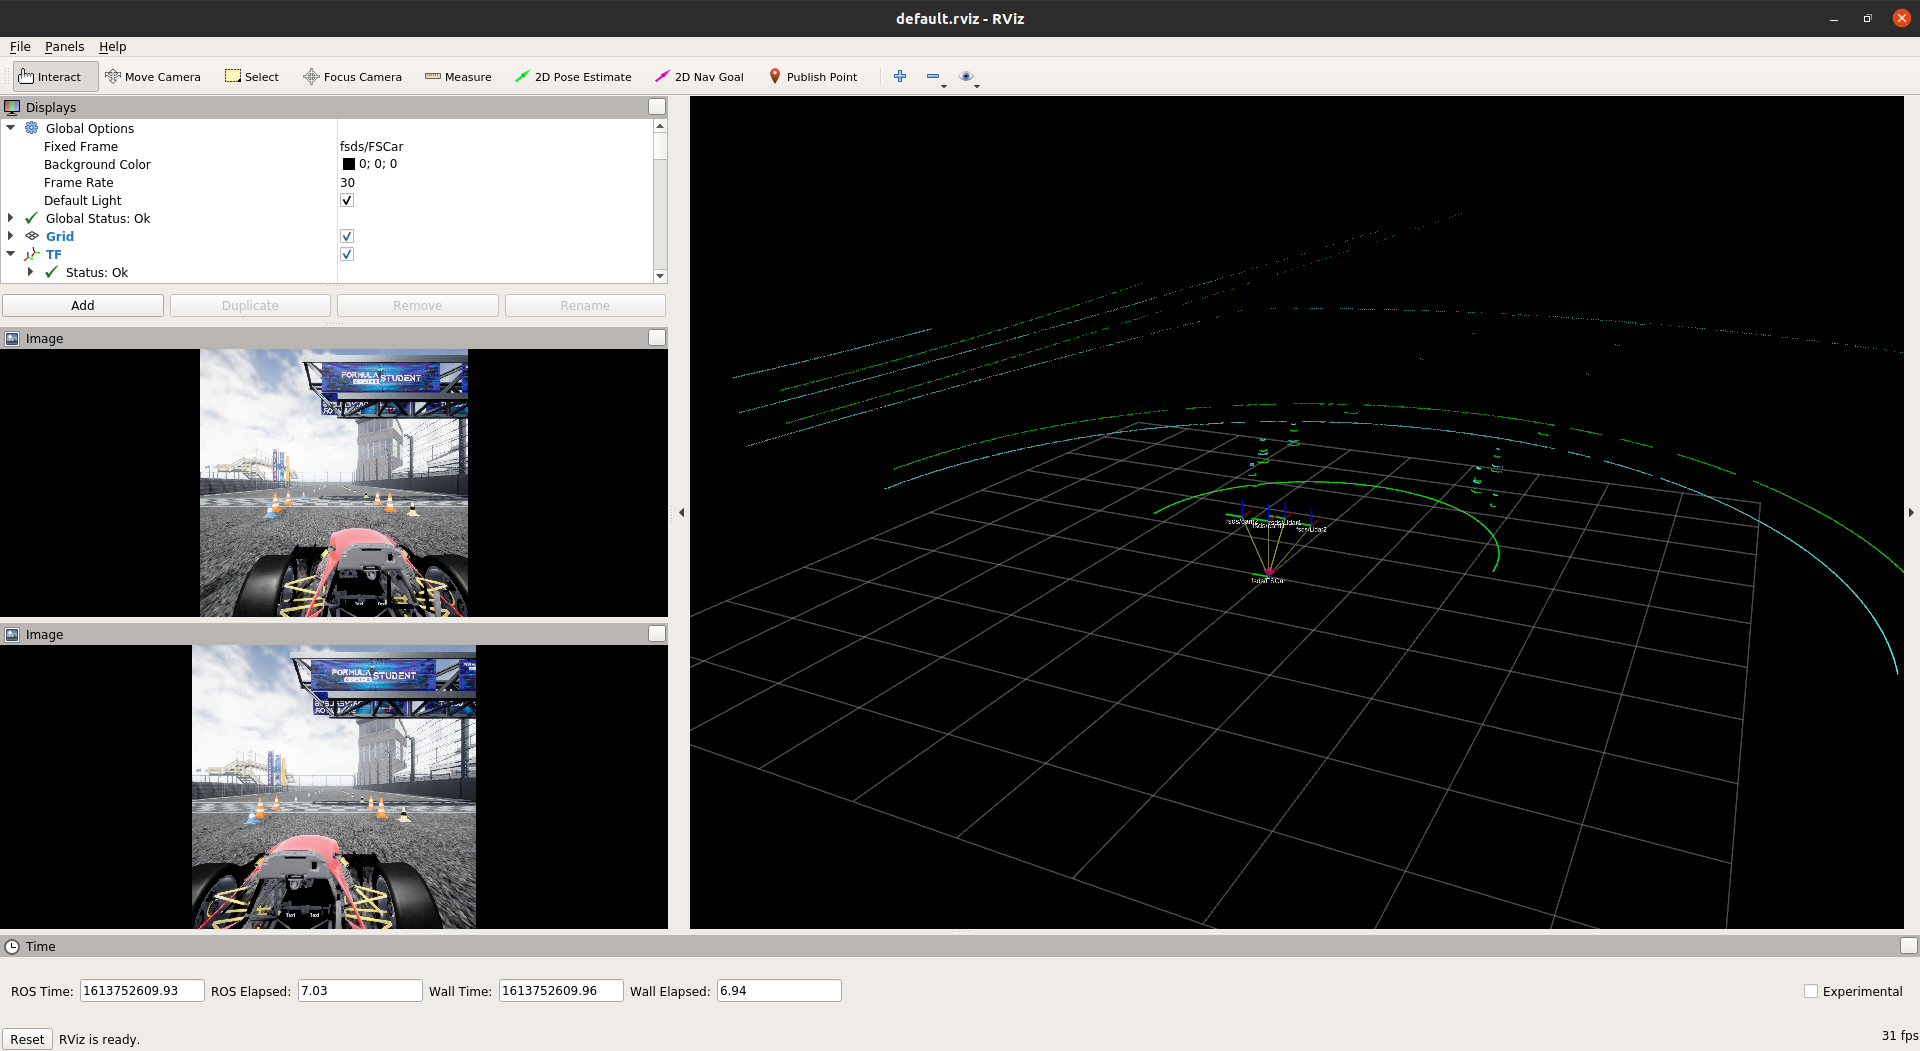
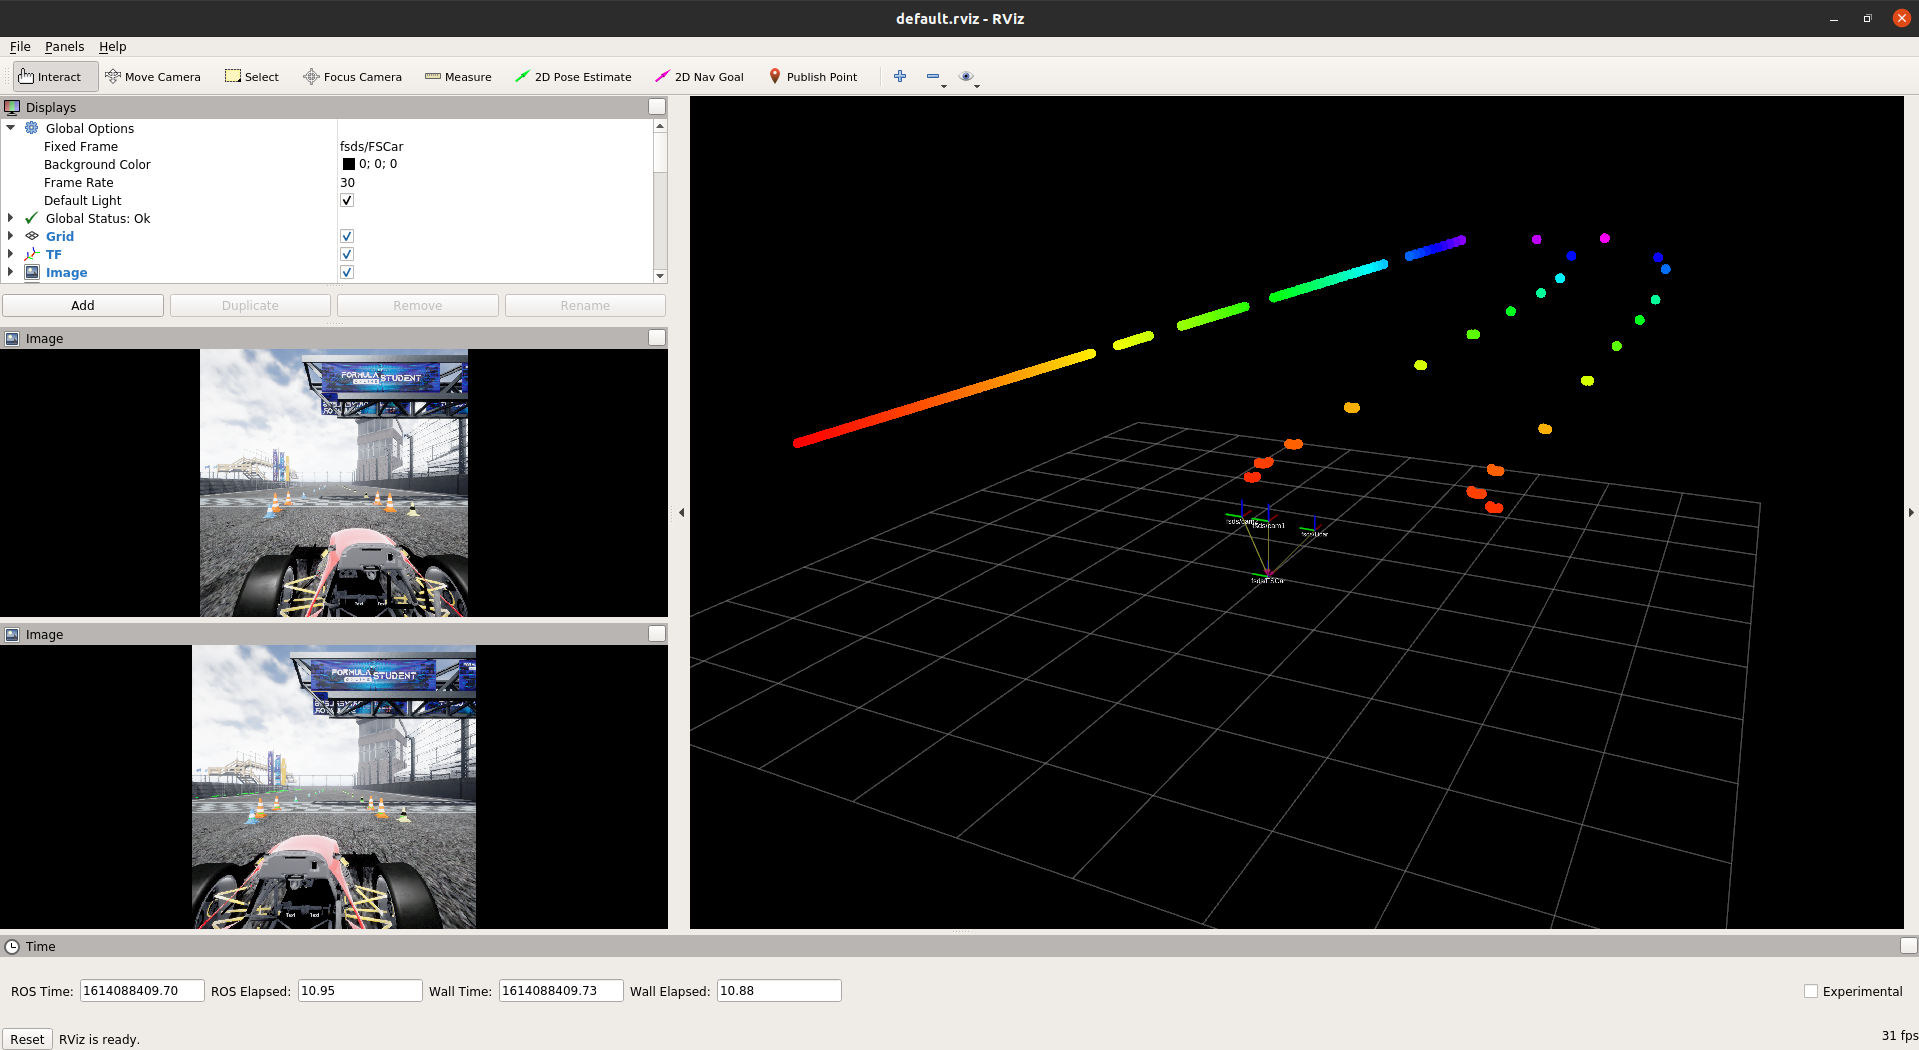
Update env and rviz config to working python example

diff --git a/README.md b/README.md
@@ -42,7 +42,7 @@ docker build -t putm-fsds -f Dockerfile .
 2. Add docker access to nvidia (it's require sudo privileges to execute)
 
 ```bash
-. ./xauth.sh
+./xauth.sh
 ```
 
 3. Run docker image
@@ -81,8 +81,10 @@ docker run \
     - start window with sensors plots:  
         `roslaunch fsds_ros_bridge plot.launch`  
         ![sim](imgs/plots.png)
-    - example control script:  
+    - example control script with ROS and python:  
         `roslaunch examples sinewave.launch`
+    - example control script with python client and lidar scan:
+        `python3 python/examples/autonomous_example.py`
     - control using gamepad:  
         `roslaunch joystick joystick.launch`
 
@@ -95,8 +97,7 @@ docker run \
     /fsds/gps
     /fsds/gss
     /fsds/imu
-    /fsds/lidar/Lidar1
-    /fsds/lidar/Lidar2
+    /fsds/lidar/Lidar
     /fsds/signal/finished
     /fsds/signal/go
     /fsds/testing_only/extra_info
@@ -105,6 +106,10 @@ docker run \
     /rosout
     /rosout_agg
     /tf_static
+    ```
+* services:
+    ```bash
+    /fsds/reset
     ```
 
 ## Errors
